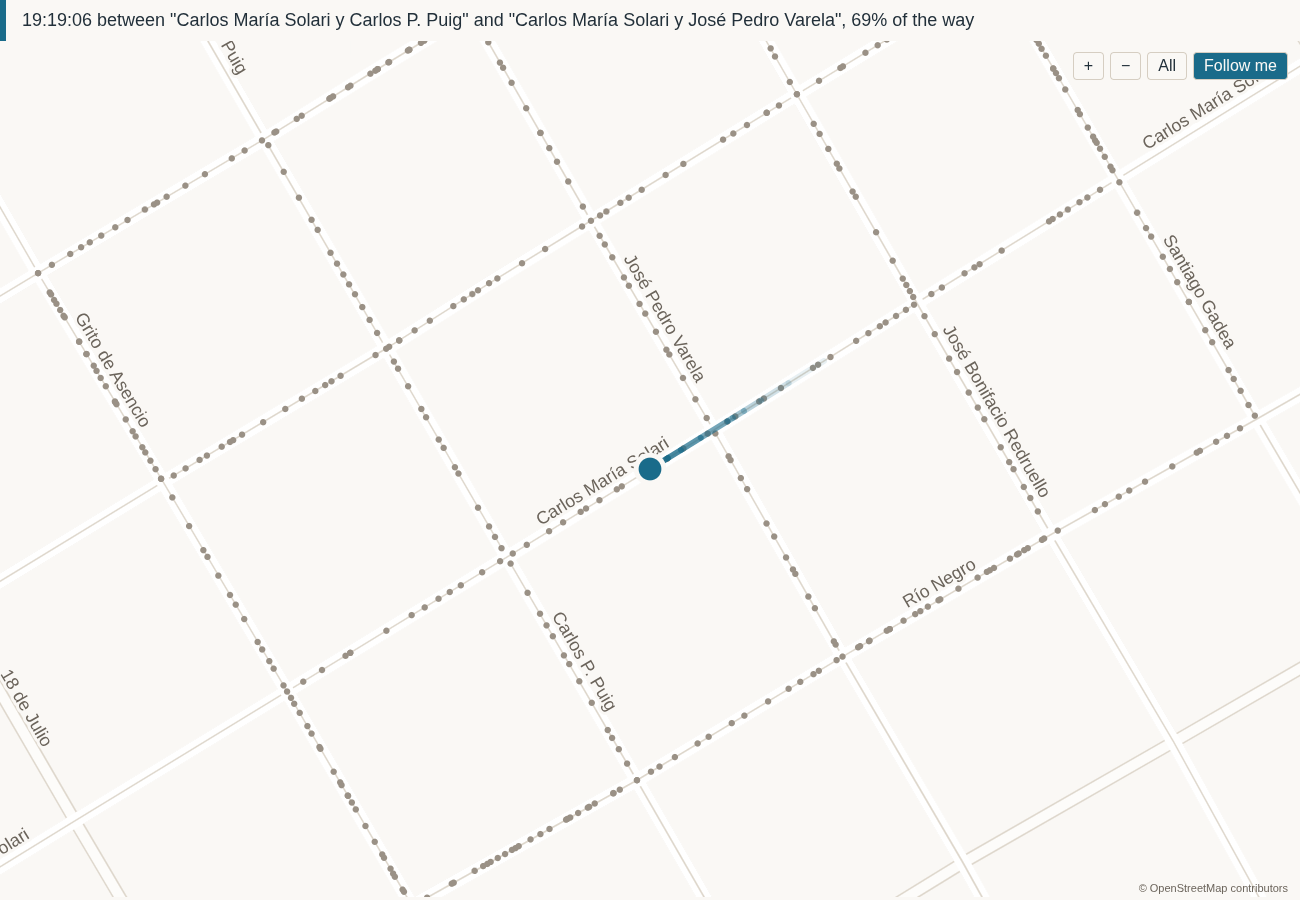
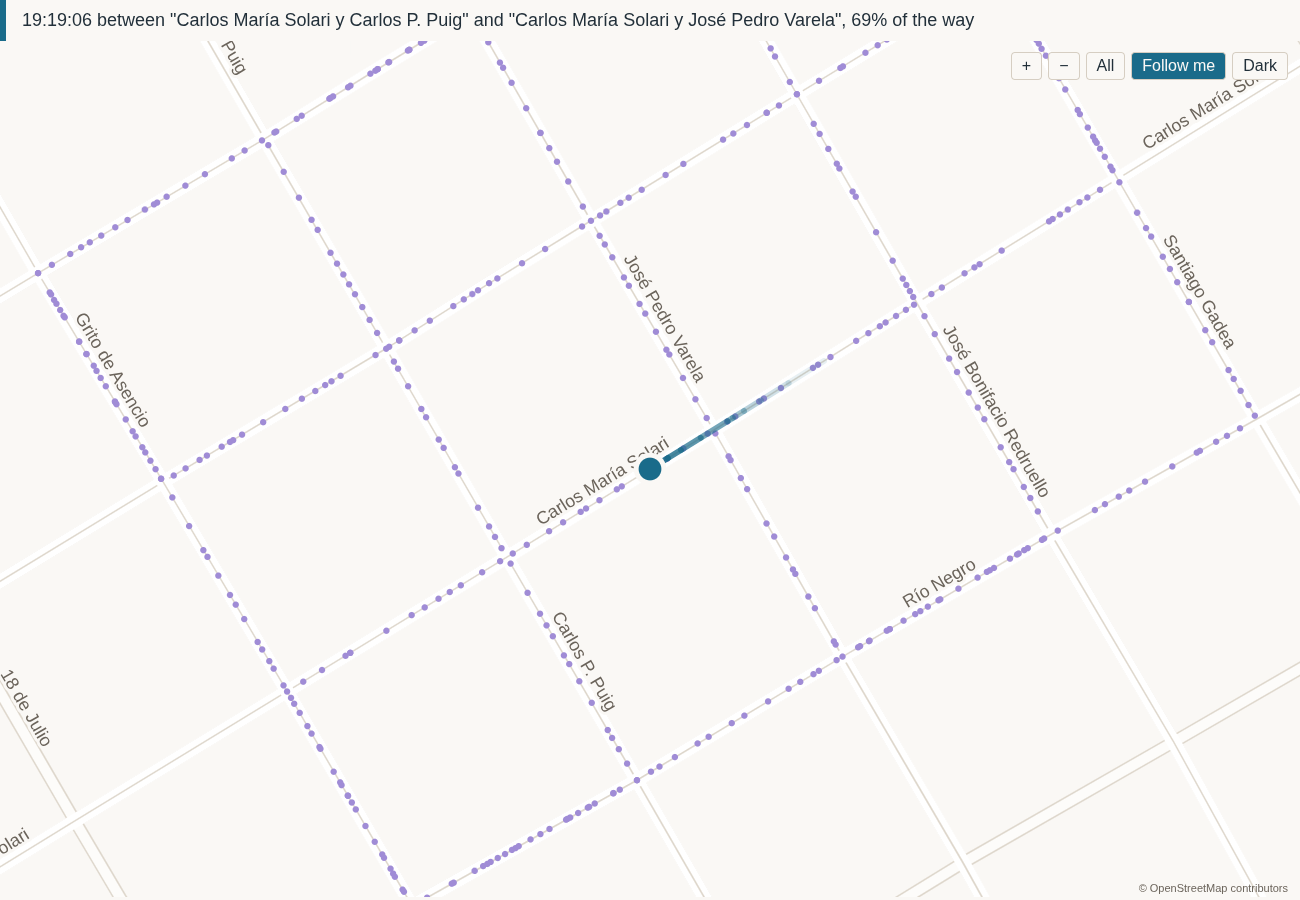
Draw the live map's fingerprints in a soft violet.

diff --git a/enodia/draw.py b/enodia/draw.py
@@ -53,6 +53,9 @@ LABEL = "#6b645b"
 HERE = "#1a6b8a"
 UNSURE = "#c98a12"
 LOST = "#9a9186"
+# The map's own fingerprints on the live map, in a colour no answer is drawn in:
+# grey was already that of an answer that lost you.
+FINGERPRINT = "#a08cd6"
 # One name of a street per this many metres of it, at most. A grid of blocks is
 # a hundred metres a side, and a name on every one of them is a pattern, not a
 # label.
@@ -74,7 +77,7 @@ DARK_STREET_EDGE = "#4b535d"
 DARK_WATER = "#1d3d4f"
 DARK_PARK = "#1e3527"
 DARK_LABEL = "#9aa4ae"
-DARK_LOOSE = "#6e7781"
+DARK_FINGERPRINT = "#a597cf"
 DARK_HERE = "#4aa3df"
 DARK_UNSURE = "#e0a33a"
 DARK_LOST = "#7d8590"
@@ -111,7 +114,7 @@ DARK_RULES = (
     (".label", f"fill: {DARK_LABEL};"),
     ("line.scale", f"stroke: {DARK_CROSSING};"),
     ("text.scale", f"fill: {DARK_CROSSING};"),
-    (".fingerprint", f"fill: {DARK_LOOSE};"),
+    (".fingerprint", f"fill: {DARK_FINGERPRINT};"),
     (".trail", f"stroke: {DARK_HERE};"),
     (".you", f"stroke: {DARK_PAPER};"),
     *(
@@ -624,7 +627,7 @@ def live_map(
 ) -> str:
     """One moment of `--locate --watch`, as a page that reloads itself every interval.
 
-    The map's own fingerprints are the grey dots, the streets the walk put on
+    The map's own fingerprints are the violet dots, the streets the walk put on
     it, and where the last scan puts you is the large one, with the last few
     answers fading behind it. An answer the scan could not settle between two
     stretches is drawn in another colour, and with the ring of how far apart
@@ -658,7 +661,7 @@ def live_map(
         out += _background(frame, streets)
     out += [
         f'<circle class="fingerprint" cx="{frame.x(lon):.1f}" cy="{frame.y(lat):.1f}" r="1.6" '
-        f'fill="{LOOSE}"/>'
+        f'fill="{FINGERPRINT}"/>'
         for lat, lon in places
     ]
     for index in range(len(shown) - 1):

diff --git a/tests/test_draw.py b/tests/test_draw.py
@@ -5,7 +5,19 @@ from datetime import datetime, timedelta, timezone
 
 import pytest
 
-from enodia.draw import DARK_RULES, HERE, LOST, UNSURE, WATER, Frame, live_map, svg_map
+from enodia.draw import (
+    DARK_FINGERPRINT,
+    DARK_RULES,
+    FINGERPRINT,
+    HERE,
+    LOST,
+    STATES,
+    UNSURE,
+    WATER,
+    Frame,
+    live_map,
+    svg_map,
+)
 from enodia.fingerprint import Fingerprint, Location, Place
 from enodia.netlog import LogRecord, SeenNetwork
 from enodia.reconcile import Estimate, PlacedNetwork, PlacedScan, Position, Reconciliation, Waypoint
@@ -353,6 +365,15 @@ def test_lost_the_page_keeps_the_last_place_it_knew_greyed_and_a_trail_behind():
     assert page.count("<line") - 1 == 3  # three steps of trail, and the scale bar
     empty = live_map(fingerprints(), None, [], "not on the map")
     assert 'r="7"' not in empty
+
+
+def test_the_maps_fingerprints_are_in_a_colour_no_answer_is_drawn_in():
+    # Grey was also the colour of an answer that lost you, and the dot saying
+    # so looked like one more of the map's.
+    page = live_map(fingerprints(), None, [HERE_NOW], "not on the map")
+    assert page.count(f'r="1.6" fill="{FINGERPRINT}"') == 5
+    answers = {colour for light_and_dark in STATES.values() for colour in light_and_dark}
+    assert FINGERPRINT not in answers and DARK_FINGERPRINT not in answers
 
 
 def test_the_live_map_draws_the_neighbourhood_and_credits_it():

diff --git a/enodia/cli.py b/enodia/cli.py
@@ -626,7 +626,7 @@ def run_watch(
         # `--geocode --streets` names it before writing it, but a live map
         # asked to draw the streets and drawing none said nothing: a path with
         # a typo in it, or a file never copied to this machine, gave a page of
-        # grey dots and no reason why.
+        # dots on nothing and no reason why.
         if args.streets is not None and not Path(args.streets).exists():
             print(
                 f"error: {args.streets}: no such streets file. --geocode --streets writes one, "

diff --git a/docs/cli.md b/docs/cli.md
@@ -203,18 +203,20 @@ enodia --locate --watch --live-map live.html --streets streets.jsonl
 ```
 
 `--live-map FILE` draws the same run: every cycle it writes a page with the map's own
-fingerprints as grey dots, where you are as a large one with your last few answers fading behind
-it, and the line the terminal printed on top. Open it once in a browser and leave it open, since
-the page reloads itself every `--interval`. An answer the scans could not settle is drawn in
-another colour, and when the map loses you the last place it knew stays greyed. `--streets` adds
-the streets, and whatever `--surroundings` brought: the water, the parks and every named street.
-It needs a map whose fingerprints carry coordinates, which is one built from a notebook that
-`--geocode` has been through. A `--streets` file that is not there is an error, as a missing map
-is, and not a page quietly drawn with no streets. The mouse wheel zooms where the pointer is, a
-drag moves the view, and the buttons zoom in, out, back to the whole map, or follow you: zoomed
-in, each reload keeps you in the middle until you drag the map away. The keys `+`, `-`, `0` and
-`f` do the same. The zoom is kept in the page's address, `live.html#x,y,width`, which is how it
-lasts from one reload to the next.
+fingerprints as violet dots, where you are as a large one with your last few answers fading
+behind it, and the line the terminal printed on top. Open it once in a browser and leave it
+open, since the page reloads itself every `--interval`. An answer the scans could not settle is
+drawn in another colour, and when the map loses you the last place it knew stays greyed.
+`--streets` adds the streets, and whatever `--surroundings` brought: the water, the parks and
+every named street. It needs a map whose fingerprints carry coordinates, which is one built from
+a notebook that `--geocode` has been through. A `--streets` file that is not there is an error,
+as a missing map is, and not a page quietly drawn with no streets. The mouse wheel zooms where
+the pointer is, a drag moves the view, and the buttons zoom in, out, back to the whole map, or
+follow you: zoomed in, each reload keeps you in the middle until you drag the map away. The keys
+`+`, `-`, `0` and `f` do the same. The page is light or dark as the system is. The Dark or Light
+button, or the key `t`, turns it to the other and keeps it there. The zoom and the theme are
+kept in the page's address, `live.html#view=x,y,width&follow&theme=dark`, which is how they last
+from one reload to the next.
 
 `--sequence tie` is that, and the default. `--sequence path` asks the scans before it every
 time, not only on a tie: it chooses the likeliest path through all of them, staying on a stretch

diff --git a/README.md b/README.md
@@ -104,7 +104,7 @@ enodia --locate --watch --streets streets.jsonl --live-map live.html
 
 Open `live.html` in a browser once and leave it open. `enodia --assistant` is a menu for the same steps, the lookup aside: the walk, the reconciliation, the map and finding yourself.
 
-![The live map in a browser: where the scan puts you on Carlos María Solari, the last answers fading behind it, the map's own fingerprints as grey dots, and the streets named.](https://raw.githubusercontent.com/carlosplanchon/enodia/main/assets/enodia_live.png)
+![The live map in a browser: where the scan puts you on Carlos María Solari, the last answers fading behind it, the map's own fingerprints as violet dots, and the streets named.](https://raw.githubusercontent.com/carlosplanchon/enodia/main/assets/enodia_live.png)
 
 *The live map, zoomed in with Follow me.*
 
